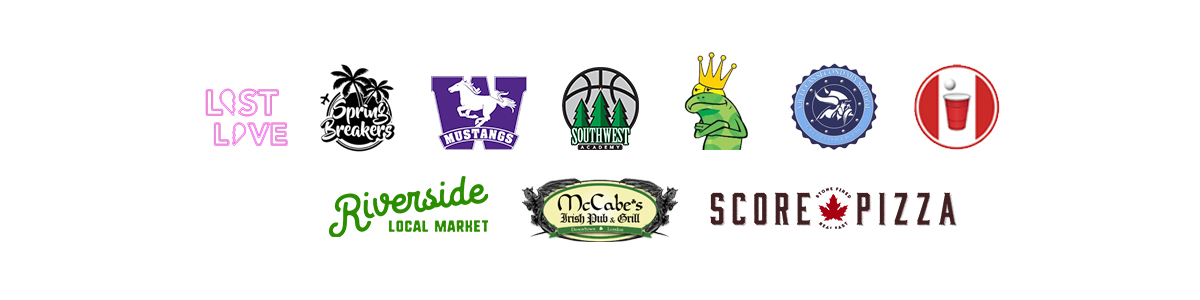
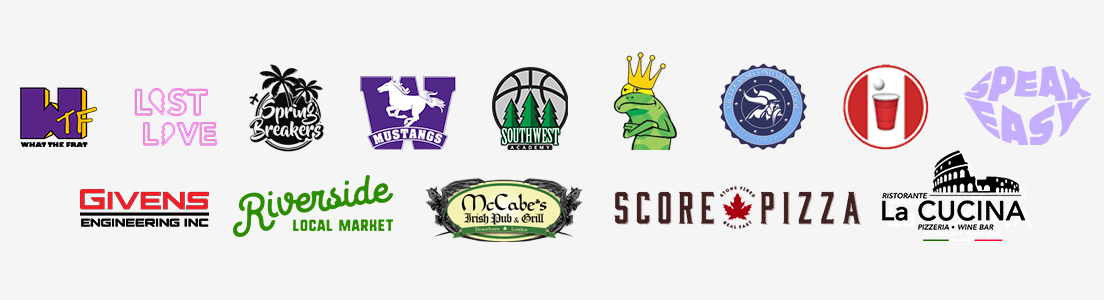
plugging away on the index page. set up the header, finished the services & clients section. bout to start on the view the work section.

Changed region(s): [[0.1232, 0.18, 0.9855, 0.51], [0.0616, 0.51, 0.9239, 0.81], [0.0, 0.27, 0.0924, 0.51]]

diff --git a/index.html b/index.html
@@ -1,0 +1,70 @@
+<!DOCTYPE html>
+<html lang="en">
+<head>
+    <meta charset="UTF-8">
+    <meta name="viewport" content="width=device-width, initial-scale=1.0">
+    <title>SMELLORR - Home</title>
+    <link rel="stylesheet" href="css/master.css" type="text/css"> <!-- master css link -->
+    <link rel="stylesheet" href="css/reset.css" type="text/css"> <!-- reset css link -->
+
+    <link rel="preconnect" href="https://fonts.gstatic.com"> <!-- Google Fonts pre connect -->
+    <link href="https://fonts.googleapis.com/css2?family=Cabin&family=Roboto+Condensed:wght@700&display=swap" rel="stylesheet"> <!-- Google Font Link -->
+
+    <script src="https://cdn.jsdelivr.net/npm/vue@2/dist/vue.js"></script> <!-- vue link -->
+</head>
+<body>
+
+    <header class="headerContainer"> <!-- header -->
+        <div class="headerLogo">
+            <img src="images/logo.png" alt="SMELLORR Logo">
+        </div>
+        <div class="headerMenu">
+            <a href="portfolio.html">Portfolio</a>
+            <a href="contact.html">Contact</a> 
+        </div>
+    </header> <!-- end of header -->
+
+    <main>
+
+        <div class="heroVid"> <!-- services section-->
+            <video src="videos/demoReel.mp4" loop autoplay muted></video>
+        </div>
+
+        <div class="services"> 
+            <div class="servicesTitle">
+                <h2>Services</h2>
+                <p>Lorem ipsum dolor sit amet consectetur adipisicing elit. Quisquam eaque quam voluptas quod, consectetur beatae laboriosam, temporibus blanditiis eius natus molestias libero enim aspernatur ducimus necessitatibus? Excepturi quia dolores natus!</p>
+            </div>
+            <div class="servicesDetails">
+                <div class="servicesText">
+                    <img src="images/film-button.png" alt="Film">
+                    <div class="servicesCopy">
+                        <h3>Video</h3>
+                        <p>Drone · Promotional · Corporate · Sport</p>
+                    </div>
+                </div>
+                <div class="servicesText">
+                    <img src="images/photo-button.png" alt="Photographery">
+                    <div class="servicesCopy">
+                        <h3>Photo</h3>
+                        <p>Event · Portfolio · Brand · Commercial</p>
+                    </div>
+                </div>
+                <div class="servicesText">
+                    <img src="images/graphicDesign-button.png" alt="Graphic Design">
+                    <div class="servicesCopy">
+                        <h3>Graphic Design</h3>
+                        <p>Brand Identity · Motion · Advertisement</p>
+                    </div>
+                </div>
+            </div>
+        </div> <!-- end of the services section-->
+
+        <div class="clients"> <!-- clients section-->
+            <img src="images/clients.jpg" alt="Client List">
+        </div> <!-- end of the clients section-->
+
+    </main>
+    
+</body>
+</html>

diff --git a/css/master.css b/css/master.css
@@ -1,0 +1,1 @@
+body{background-color:#0a0a0a}.heroVid{display:flex;align-items:center;width:100%;align-content:center}.heroVid video{text-align:center;align-content:center;margin:0 auto;width:94.5%}.clients{background-color:#f5f5f5;display:flex;flex-wrap:wrap;width:94.5%;align-content:center;margin:0 auto;margin-top:6rem;margin-bottom:6rem}.clients img{margin:0 auto;width:800px;height:auto;max-width:800px}.headerContainer{display:flex;flex-direction:row;align-items:center}.headerContainer .headerLogo{margin-left:2rem}.headerContainer .headerLogo img{width:75px;height:auto}.headerContainer .headerMenu{font-family:"Cabin",sans-serif;text-transform:uppercase;margin-left:auto;order:2;padding:2rem}.headerContainer .headerMenu a{text-decoration:none;color:#fff;margin-left:2rem}.headerContainer .headerMenu a:hover{opacity:.8;cursor:pointer}.services{display:flex;flex-direction:row;flex-wrap:wrap;margin-top:10rem;margin-left:3rem;margin-right:3rem}.services img{width:60px;height:auto}.services .servicesTitle{color:#fff;font-family:"Roboto Condensed",sans-serif;font-size:2.5rem;width:50%}.services .servicesTitle h2{padding-bottom:1.5rem;border-bottom:.5px solid #9aff6e}.services .servicesTitle p{color:gray;font-family:"Cabin",sans-serif;font-size:1rem;margin-top:2rem}.services .servicesDetails{margin-left:auto;order:2}.services .servicesDetails img{margin-right:3rem}.services .servicesDetails .servicesText{display:flex;flex-direction:row;margin-bottom:2rem;align-content:center;align-items:center}.services .servicesDetails .servicesText .servicesCopy{text-align:left;padding-left:3rem;border-left:1px solid #f5f5f5}.services .servicesDetails .servicesText .servicesCopy h3{color:#fff;font-family:"Roboto Condensed",sans-serif;padding-bottom:.1rem}.services .servicesDetails .servicesText .servicesCopy p{margin-top:.5rem;color:gray;font-family:"Cabin",sans-serif}/*# sourceMappingURL=master.css.map */

diff --git a/sass/components/_services.scss b/sass/components/_services.scss
@@ -1,0 +1,71 @@
+.services {
+    display: flex;
+    flex-direction: row;
+    flex-wrap: wrap;
+    margin-top: 10rem;
+    margin-left: 3rem;
+    margin-right: 3rem;
+
+    img {
+        width: 60px;
+        height: auto;
+    }
+
+    .servicesTitle {
+        color: white;
+        font-family: $title;
+        font-size: $titleSize;
+        width: 50%;
+
+        h2 {
+            padding-bottom: 1.5rem;
+            border-bottom: .5px solid $green;
+        }
+
+        p  {
+            color: grey;
+            font-family: $body;
+            font-size: $bodySize;
+            margin-top: 2rem;
+        }
+    }
+
+    .servicesDetails {
+        margin-left: auto;
+        order: 2;
+
+        img {
+            margin-right: 3rem;
+        }
+
+        .servicesText {
+            display: flex;
+            flex-direction: row;
+            margin-bottom: 2rem;
+            align-content: center;
+            align-items: center;
+
+            .servicesCopy {
+                text-align: left;
+                padding-left: 3rem;
+                border-left: 1px solid $white;
+                
+                h3 {
+                    color: white;
+                    font-family: $title;
+                    padding-bottom: .1rem;
+                }
+
+                p {
+                    margin-top: .5rem;
+                    color: grey;
+                    font-family: $body;
+                }
+
+            }
+
+        }
+        
+
+    }
+}

diff --git a/css/reset.css b/css/reset.css
@@ -1,0 +1,52 @@
+/* http://meyerweb.com/eric/tools/css/reset/ 
+   v2.0 | 20110126
+   License: none (public domain)
+*/
+
+/*Can all be looked up and explained with: http://docs.panic.com/#css*/
+
+html, body, div, span, applet, object, iframe,
+h1, h2, h3, h4, h5, h6, p, blockquote, pre,
+a, abbr, acronym, address, big, cite, code,
+del, dfn, em, img, ins, kbd, q, s, samp,
+small, strike, strong, sub, sup, tt, var,
+b, u, i, center,
+dl, dt, dd, ol, ul, li,
+fieldset, form, label, legend,
+table, caption, tbody, tfoot, thead, tr, th, td,
+article, aside, canvas, details, embed,
+figure, figcaption, footer, header, hgroup,
+menu, nav, output, ruby, section, summary,
+time, mark, audio, video {
+	margin: 0;
+	padding: 0;
+	border: 0;
+	font-size: 100%;
+	vertical-align: baseline; /*Align the baseline of the element with the baseline of its parent.*/
+}
+/* HTML5 display-role reset for older browsers */
+article, aside, details, figcaption, figure,
+footer, header, hgroup, menu, nav, section {
+	display: block;
+}
+
+ol, ul {
+	list-style: none;
+}
+
+/*Removes quotes from q tag and blockquote tag*/
+blockquote, q {
+	quotes: none;
+}
+blockquote:before, blockquote:after,
+q:before, q:after {
+	content: '';
+	content: none;
+}
+
+/*In the collapsed border model, adjacent table cells share borders.*/
+/*http://docs.panic.com/#css/border-collapse*/
+table {
+	border-collapse: collapse;
+	border-spacing: 0;
+}

diff --git a/sass/components/_main.scss b/sass/components/_main.scss
@@ -1,0 +1,38 @@
+body {
+    background-color: $black;
+    // display: flex;
+    // // flex-wrap: wrap;
+    // max-width: 2000px;
+}
+
+.heroVid {
+    display: flex;
+    align-items: center;
+    width: 100%;
+    align-content: center;
+
+    video {
+        text-align: center;
+        align-content: center;
+        margin: 0 auto;
+        width: 94.5%;
+    }
+}
+
+.clients {
+    background-color: $white;
+    display: flex;
+    flex-wrap: wrap;
+    width: 94.5%;
+    align-content: center;
+    margin: 0 auto;
+    margin-top: 6rem;
+    margin-bottom: 6rem;;
+
+    img {
+        margin: 0 auto;
+        width: 800px;
+        height: auto;
+        max-width: 800px;
+    }
+}

diff --git a/sass/components/_header.scss b/sass/components/_header.scss
@@ -1,0 +1,35 @@
+.headerContainer {
+    display: flex;
+    flex-direction: row;
+    align-items: center;
+
+    .headerLogo {
+        margin-left: 2rem;
+    
+        img {
+            width: 75px;
+            height: auto;
+        }
+    }
+
+    .headerMenu {
+        font-family: $body;
+        text-transform: uppercase;
+        margin-left: auto;
+        order: 2;
+        padding: 2rem;
+
+        a {
+            text-decoration: none;
+            color: white;
+            margin-left: 2rem;
+
+            &:hover {
+                opacity: .8;
+                cursor: pointer;
+            }
+
+        }
+    }
+    
+}

diff --git a/sass/components/_vars.scss b/sass/components/_vars.scss
@@ -1,0 +1,10 @@
+$black: #0a0a0a;
+$white: #f5f5f5;
+$green: #9aff6e;
+$grey: #b3b3b3;
+
+$title: 'Roboto Condensed', sans-serif;
+$titleSize: 2.5rem;
+
+$body: 'Cabin', sans-serif;
+$bodySize: 1rem;

diff --git a/sass/master.scss b/sass/master.scss
@@ -1,0 +1,6 @@
+@import 'components/_vars.scss';
+
+@import 'components/_main.scss';
+
+@import 'components/_header.scss';
+@import 'components/_services.scss';
